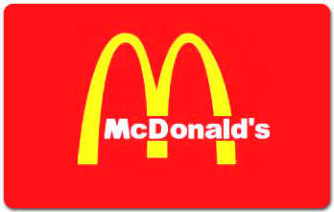
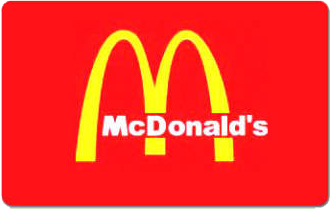
Adjusted and added McDonald's gift card

Changed region(s): [[0.2115, 0.1148, 0.8157, 0.8038], [0.0, 0.0, 1.0, 1.0], [0.6344, 0.7464, 0.7251, 0.8038]]

diff --git a/Stacker/PlaymonOffersViewController.m b/Stacker/PlaymonOffersViewController.m
@@ -149,9 +149,8 @@
 - (NSArray*) getGiftCards
 {
     GiftCard *appleOne = [GiftCard giftCardWithImage:[UIImage imageNamed:@"itunes15.png"] storeName:@"Apple" distance:nil title:@"Get 3 coins when you buy $15 gift card" coinsValue:3];
-    GiftCard *appleTwo = [GiftCard giftCardWithImage:[UIImage imageNamed:@"itunes25.png"] storeName:@"Apple" distance:nil title:@"Get 6 coins when you buy $25 gift card" coinsValue:6];
-    GiftCard *appleThree = [GiftCard giftCardWithImage:[UIImage imageNamed:@"itunes50.png"] storeName:@"Apple" distance:nil title:@"Get 10 coins when you buy $50 gift card" coinsValue:6];
-    return [NSArray arrayWithObjects:appleOne, appleTwo, appleThree, nil];
+    GiftCard *mcdonalds = [GiftCard giftCardWithImage:[UIImage imageNamed:@"mcdonalds.png"] storeName:@"McDonald's" distance:@"10m away" title:@"Get 3 coins when you buy $10 gift card" coinsValue:3];
+    return [NSArray arrayWithObjects:appleOne, mcdonalds, nil];
 }
 
 @end
